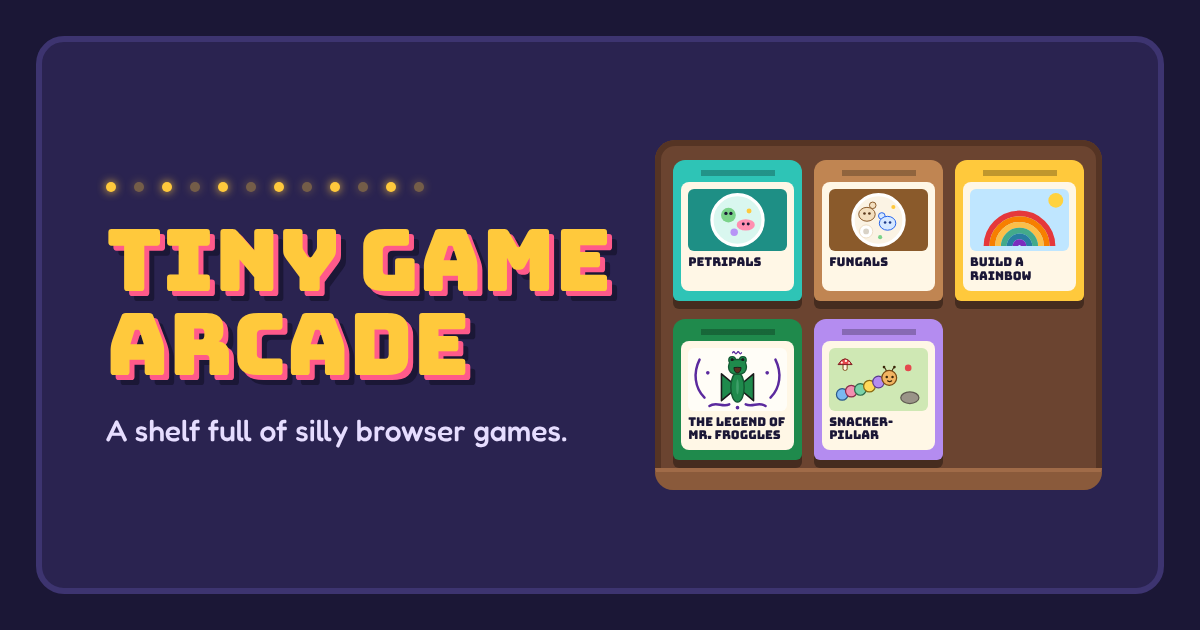
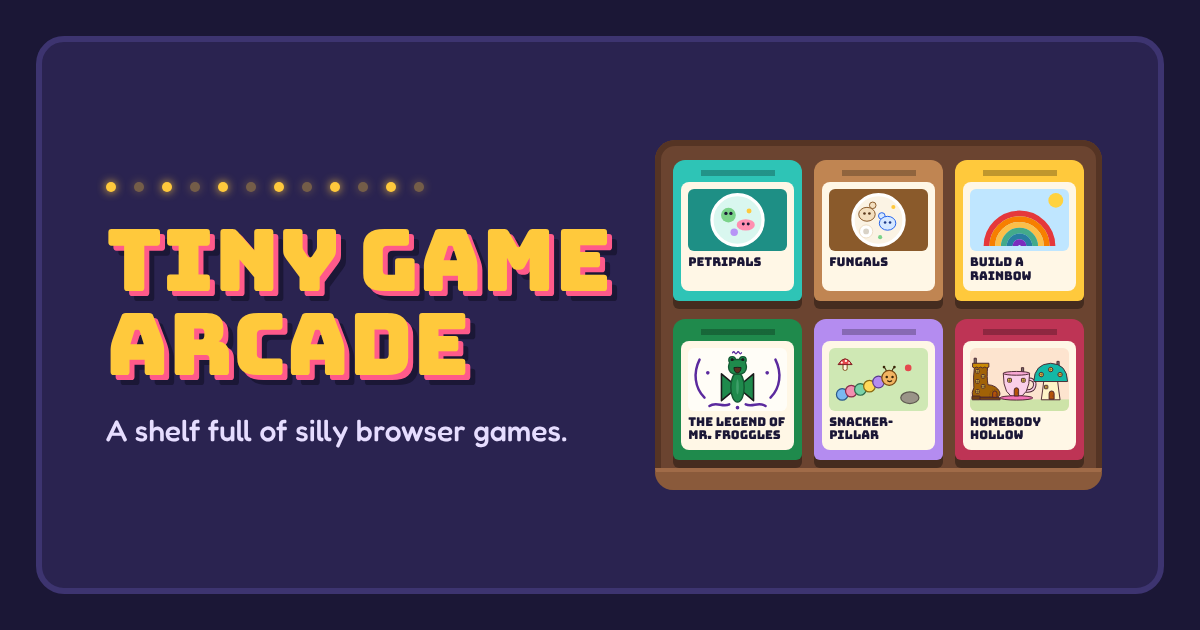
Add Homebody Hollow to the shelf
A cozy game about tiny cottages that used to be something else, like a
boot or a teacup, that you design your way. Its cartridge picture is the
game's own boot, teacup and mushroom cottages, drawn from its
cottages.js, on the grass. The link preview now shows all six games.

Claude-Session: https://claude.ai/code/session_01RAUxd3SXo89jMUv7LzYjWM

Changed region(s): [[0.7708, 0.4825, 0.925, 0.754]]

diff --git a/public/index.html b/public/index.html
@@ -22,7 +22,7 @@
     <meta property="og:image" content="https://jessicasogge.github.io/tiny-game-arcade/share.png" />
     <meta property="og:image:width" content="1200" />
     <meta property="og:image:height" content="630" />
-    <meta property="og:image:alt" content="The words Tiny Game Arcade next to a wooden shelf holding game cartridges for PetriPals, FunGals, Build a Rainbow, The Legend of Mr. Froggles and Snackerpillar" />
+    <meta property="og:image:alt" content="The words Tiny Game Arcade next to a wooden shelf holding game cartridges for PetriPals, FunGals, Build a Rainbow, The Legend of Mr. Froggles, Snackerpillar and Homebody Hollow" />
     <meta name="twitter:card" content="summary_large_image" />
   </head>
   <body>
@@ -80,7 +80,8 @@
               <a href="https://jessicasogge.github.io/fungals/">FunGals</a> ·
               <a href="https://jessicasogge.github.io/build-a-rainbow/">Build a Rainbow</a> ·
               <a href="https://jessicasogge.github.io/legend-of-froggles/">The Legend of Mr. Froggles</a> ·
-              <a href="https://jessicasogge.github.io/snackerpillar/">Snackerpillar</a></p>
+              <a href="https://jessicasogge.github.io/snackerpillar/">Snackerpillar</a> ·
+              <a href="https://jessicasogge.github.io/homebody-hollow/">Homebody Hollow</a></p>
           </noscript>
         </section>
       </main>

diff --git a/public/games.js b/public/games.js
@@ -64,4 +64,14 @@ export const GAMES = [
     shell: '#B48CF0',
     screen: '#2E4A1F',
   },
+  {
+    id: 'homebody-hollow',
+    title: 'Homebody Hollow',
+    sub: 'Design a tiny cottage',
+    blurb: 'Pick a tiny cottage that used to be something else, like a boot or a teacup, and design it your way.',
+    tags: ['Cozy', 'Design', 'Cottages'],
+    url: 'https://jessicasogge.github.io/homebody-hollow/',
+    shell: '#BE3455',
+    screen: '#7F1D3A',
+  },
 ];

diff --git a/README.md b/README.md
@@ -9,6 +9,7 @@ On the shelf now:
 - **[Build a Rainbow](https://jessicasogge.github.io/build-a-rainbow/):** eight rainbow color games for young kids.
 - **[The Legend of Mr. Froggles](https://jessicasogge.github.io/legend-of-froggles/):** a magical flying frog, based on an original drawing by Caitlin Sogge.
 - **[Snackerpillar](https://jessicasogge.github.io/snackerpillar/):** steer a hungry caterpillar made of circles, eat colored dots to grow, and don't bump into rocks, mushrooms or her own tail.
+- **[Homebody Hollow](https://jessicasogge.github.io/homebody-hollow/):** pick a tiny cottage that used to be something else, like a boot or a teacup, and design it your way.
 
 ## Running it locally
 
